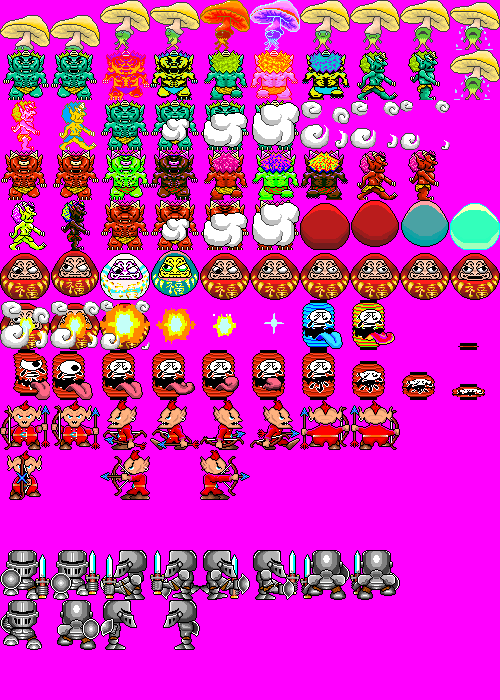
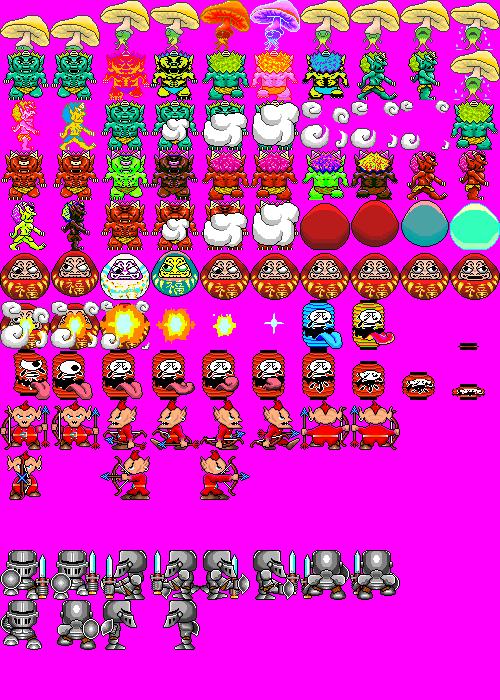
More basic enemies/sheet edits.

Changed region(s): [[0.39, 0.12, 1.0, 0.3], [0.39, 0.06, 0.51, 0.15]]

diff --git a/data/components/enemy_sprites.py b/data/components/enemy_sprites.py
@@ -8,6 +8,7 @@ from .. import prepare, tools
 KNOCK_SPEED = 12.5  #Pixels per frame.
 
 ENEMY_SHEET = prepare.GFX["enemies"]["enemysheet"]
+ENEMY_SHEET_2 = prepare.GFX["enemies"]["enemysheet1"]
 
 ENEMY_COORDS = {
     "cabbage" : [(0,0),(1,0),(2,0),(3,0),(4,0),(5,0),(6,0)],
@@ -19,26 +20,26 @@ ENEMY_COORDS = {
                   (7,1),(7,0),(8,1),(8,0),(9,1),(9,0)],
     "tank" : [(0,7),(1,7),(2,7),(3,7),(4,7),(5,7),(6,7),(7,7),
               (8,6),(5,8),(6,8),(7,8),(8,7),(9,7),(8,8)],
-
     "frog" : [(0,10),(1,10),(0,11),(1,11),(2,11),(3,11),
               (2,10),(3,10),(4,11),(5,11),(6,11),(8,12),
               (4,10),(5,10),(6,10),(7,11),(8,11),(9,11),(9,12)],
-
     "crab" : [(4,9),(5,9),(6,9),(7,9),(8,9),(9,9),(7,10),(8,10),(9,10)],
+
     "zombie" : [(0,3),(1,3),(6,4),(7,4),(8,2),(9,2),(2,3),(3,3),(8,4),(9,4),
                 (9,5),(9,6),(4,3),(5,3),(6,3),(7,3),(8,3),(9,3)],
+
     "snail" : [(0,8),(1,8),(2,8),(3,8),(4,8),(0,9),(1,9),(2,9),(3,9)],
     "mushroom" : [(0,0),(1,0),(2,0),(3,0),(4,0),(5,0),
                   (6,0),(7,0),(8,0),(9,0),(9,1)],
-    "blue_oni" : [(0,1),(1,1),(4,1),(7,1),(8,1),(2,1),(3,1),(5,1),(0,2),
-                  (1,2),(2,2),(3,2),(4,2),(5,2),(6,2),(7,2),(8,2)],
-    "red_oni" : [(0,3),(1,3),(4,3),(7,3),(8,3),(2,3),(3,3),(5,3),(0,4),
-                 (1,4),(2,4),(3,4),(4,4),(5,4),(6,2),(7,2),(8,2)],
+    "blue_oni" : [(0,1),(1,1),(4,1),(9,2),(7,1),(8,1),(2,1),(3,1),(5,1),(6,1),
+                  (0,2),(1,2),(2,2),(3,2),(4,2),(5,2),(6,2),(7,2),(8,2)],
+    "red_oni" : [(0,3),(1,3),(4,3),(5,3),(8,3),(9,3),(2,3),(3,3),(6,3),(7,3),
+                 (0,4),(1,4),(2,4),(3,4),(4,4),(5,4),(6,2),(7,2),(8,2)],
     "daruma" : [(0,5),(1,5),(2,5),(3,5),(4,5),(5,5),(6,5),(7,5),(8,5),(9,5),
                 (0,6),(1,6),(2,6),(3,6),(4,6),(5,6),(6,4),(7,4),(8,4),(9,4)],
     "lantern" : [(0,7),(1,7),(6,6),(7,6),(2,7),(3,7),(4,7),
                  (5,7),(6,7),(7,7),(8,7),(9,7),(9,6)],
-    "evil_self" : [(0,8),(1,8),(2,8),(3,8),(4,8),(5,8),(6,8),(7,8)],
+    "evil_elf" : [(0,8),(1,8),(2,8),(3,8),(4,8),(5,8),(6,8),(7,8)],
     "knight" : [(0,11),(1,11),(2,11),(3,11),(4,11),(5,11),
                 (6,11),(7,11),(0,12),(1,12),(2,12),(3,12)]}
 
@@ -142,6 +143,10 @@ class _Enemy(pg.sprite.Sprite):
 
     @property
     def frame_speed(self):
+        """
+        Returns the total displacement undergone in a frame. Used for the
+        interpolation of the sprites' location in the draw phase.
+        """
         return (self.exact_position[0]-self.old_position[0],
                 self.exact_position[1]-self.old_position[1])
 
@@ -342,6 +347,28 @@ class _SideFramesOnly(_Enemy):
         self.image = self.get_anim().get_next_frame(pg.time.get_ticks())
 
 
+class _FourDirFrames(_Enemy):
+    """
+    Used for four direction enemies.
+    The left frames are flipped versions of the right.
+    """
+    def __init__(self, *args):
+        _Enemy.__init__(self, *args)
+        self.ai = LinearAI(self)
+        walk = {"front" : tools.Anim(self.frames[:2], 7),
+                "back" : tools.Anim(self.frames[2:4], 7),
+                "left" : tools.Anim([pg.transform.flip(self.frames[4], 1, 0),
+                               pg.transform.flip(self.frames[5], 1, 0)], 7),
+                "right" : tools.Anim(self.frames[4:6], 7)}
+        hit = {"front" : tools.Anim(self.frames[6:8], 20),
+               "back" : tools.Anim(self.frames[8:10], 20),
+               "left" : tools.Anim([pg.transform.flip(self.frames[10], 1, 0),
+                               pg.transform.flip(self.frames[11], 1, 0)], 20),
+               "right" : tools.Anim(self.frames[10:12], 20)}
+        self.anims = {"walk" : walk, "hit" : hit, "die" : None}
+        self.image = self.get_anim().get_next_frame(pg.time.get_ticks())
+
+
 class Cabbage(_BasicFrontFrames):
     """The eponymous Cabbage monster. (1 direction)"""
     def __init__(self, *args):
@@ -403,6 +430,7 @@ class Scorpion(_SideFramesOnly):
         self.attack = 10
         self.drops = ["heart", None]
 
+
 class Snail(_SideFramesOnly):
     """A toxic trail leaving snail (not implemented). (2 directions)"""
     def __init__(self, *args):
@@ -412,53 +440,49 @@ class Snail(_SideFramesOnly):
         self.drops = ["diamond", "heart", None, None]
 
 
-class Zombie(_Enemy):
+class Zombie(_FourDirFrames):
     """The typical stock zombie. (4 directions)"""
     def __init__(self, *args):
-        _Enemy.__init__(self,  "zombie", ENEMY_SHEET, *args)
+        _FourDirFrames.__init__(self,  "zombie", ENEMY_SHEET, *args)
         self.ai = LinearAI(self)
-        walk = {"front" : tools.Anim(self.frames[:2], 7),
-                "back" : tools.Anim(self.frames[2:4], 7),
-                "left" : tools.Anim([pg.transform.flip(self.frames[4], 1, 0),
-                               pg.transform.flip(self.frames[5], 1, 0)], 7),
-                "right" : tools.Anim(self.frames[4:6], 7)}
-        hit = {"front" : tools.Anim(self.frames[6:8], 20),
-               "back" : tools.Anim(self.frames[8:10], 20),
-               "left" : tools.Anim([pg.transform.flip(self.frames[10], 1, 0),
-                               pg.transform.flip(self.frames[11], 1, 0)], 20),
-               "right" : tools.Anim(self.frames[10:12], 20)}
         die_frames = self.frames[12:]+self.frames[16:]
-        self.anims = {"walk" : walk,
-                      "hit" : hit,
-                      "die" : tools.Anim(die_frames, 5, 1)}
-        self.image = self.get_anim().get_next_frame(pg.time.get_ticks())
+        self.anims["die"] = tools.Anim(die_frames, 5, 1)
         self.health = 10
         self.attack = 8
         self.drops = ["key"]
 
 
-class Frog(_Enemy):
+class Frog(_FourDirFrames):
     """Your standard hoppy frog (4 directions)"""
     def __init__(self, *args):
-        _Enemy.__init__(self,  "frog", ENEMY_SHEET, *args)
-        walk = {"front" : tools.Anim(self.frames[:2], 7),
-                "back" : tools.Anim(self.frames[2:4], 7),
-                "left" : tools.Anim([pg.transform.flip(self.frames[4], 1, 0),
-                               pg.transform.flip(self.frames[5], 1, 0)], 7),
-                "right" : tools.Anim(self.frames[4:6], 7)}
-        hit = {"front" : tools.Anim(self.frames[6:8], 20),
-               "back" : tools.Anim(self.frames[8:10], 20),
-               "left" : tools.Anim([pg.transform.flip(self.frames[10], 1, 0),
-                               pg.transform.flip(self.frames[11], 1, 0)], 20),
-               "right" : tools.Anim(self.frames[10:12], 20)}
+        _FourDirFrames.__init__(self,  "frog", ENEMY_SHEET, *args)
         die_frames = self.frames[12:]
-        self.anims = {"walk" : walk,
-                      "hit" : hit,
-                      "die" : tools.Anim(die_frames, 5, 1)}
-        self.image = self.get_anim().get_next_frame(pg.time.get_ticks())
+        self.anims["die"] = tools.Anim(die_frames, 5, 1)
         self.health = 6
         self.attack = 6
         self.drops = ["heart", None, None]
+
+
+class AoOni(_FourDirFrames):
+    """Let's go to Onigashima."""
+    def __init__(self, *args):
+        _FourDirFrames.__init__(self,  "blue_oni", ENEMY_SHEET_2, *args)
+        die_frames = self.frames[12:]
+        self.anims["die"] = tools.Anim(die_frames, 10, 1)
+        self.health = 15
+        self.attack = 8
+        self.drops = ["heart", None, None]
+
+
+class AkaOni(_FourDirFrames):
+    """Let's go to Onigashima."""
+    def __init__(self, *args):
+        _FourDirFrames.__init__(self,  "red_oni", ENEMY_SHEET_2, *args)
+        die_frames = self.frames[12:]
+        self.anims["die"] = tools.Anim(die_frames, 10, 1)
+        self.health = 10
+        self.attack = 15
+        self.drops = ["diamond", None, None]
 
 
 class Skeleton(_Enemy):
@@ -499,8 +523,8 @@ ENEMY_DICT = {(0, 0) : Cabbage,
               (0, 50) : Snake,
               (50, 50) : Scorpion,
               (100, 50) : Turtle,
-              (150, 50) : None, #AoOni,
-              (200, 50) : None, #AkaOni,
+              (150, 50) : AoOni,
+              (200, 50) : AkaOni,
               (250, 50) : None, #Lantern,
               (300, 50) : None, #Daruma,
               (350, 50) : None, #FireBall,
